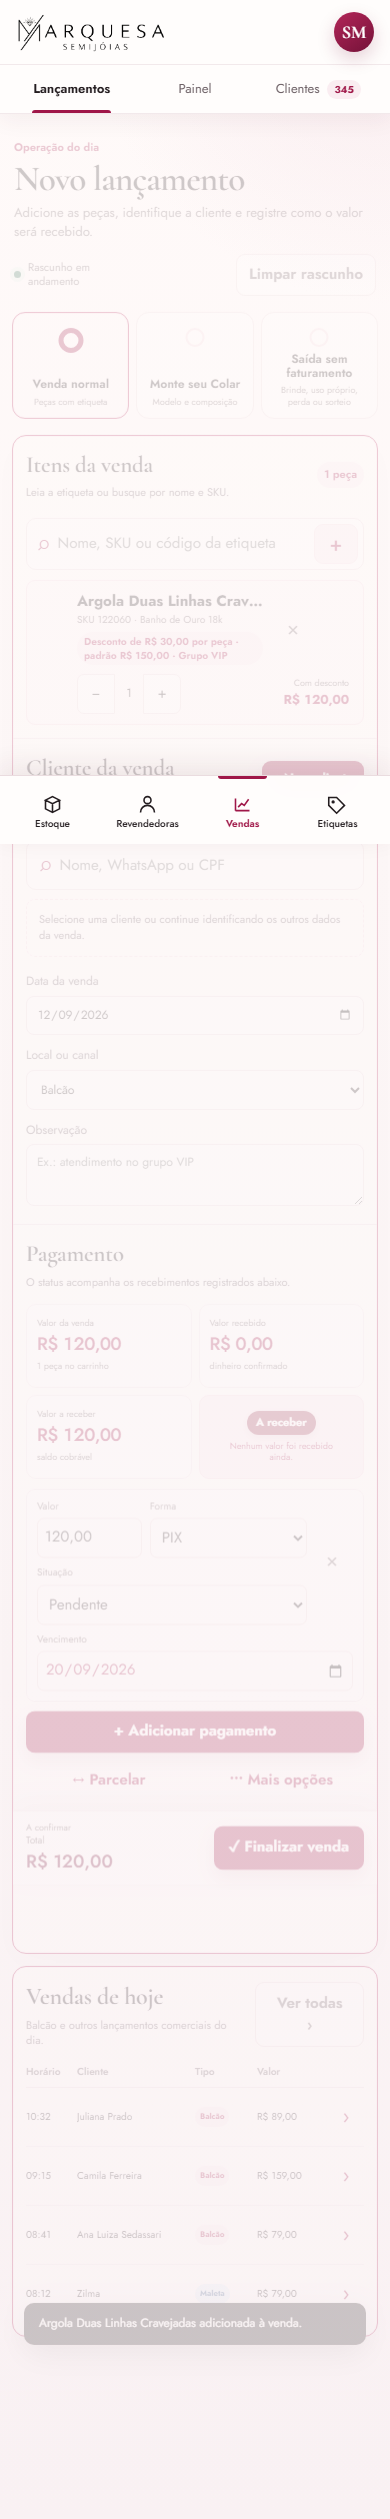
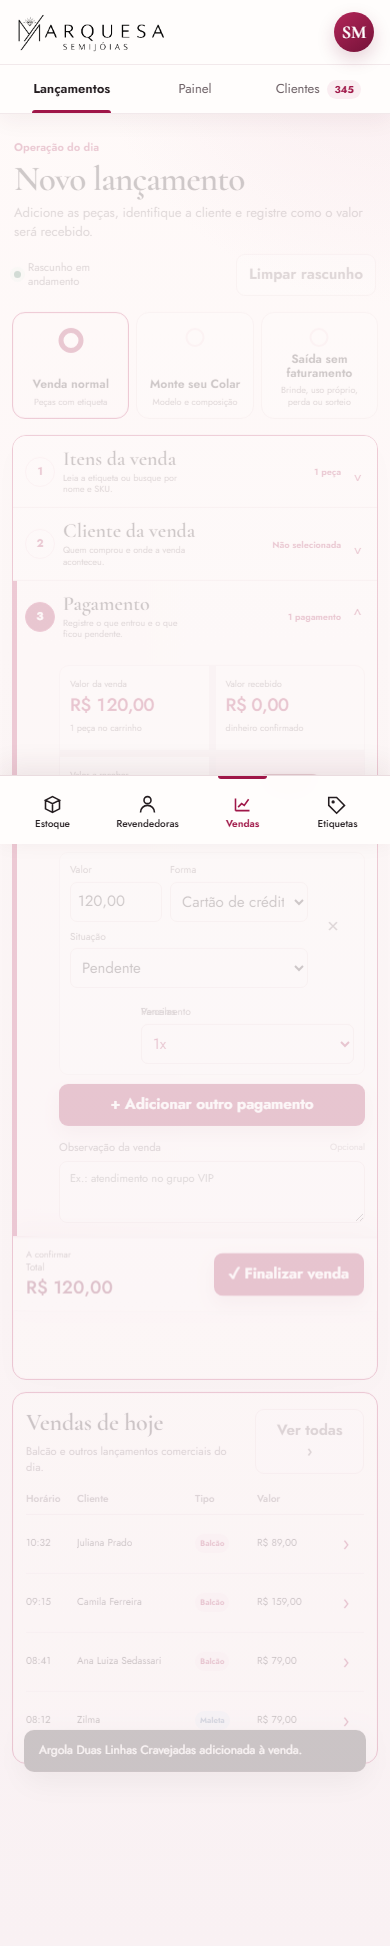
feat(ux): VEN-001 compacta fluxo de lancamento

diff --git a/docs/ux/03-screens/vendas/master.html b/docs/ux/03-screens/vendas/master.html
@@ -255,15 +255,16 @@
             <div class="draft-tools"><span class="draft-indicator" data-draft-indicator><i></i> Rascunho vazio</span><button class="button ghost" type="button" data-clear-draft disabled>Limpar rascunho</button></div>
           </div>
           <div class="choice-grid" role="radiogroup" aria-label="Tipo de lançamento">
-            <button class="choice active" type="button" role="radio" aria-checked="true" data-launch-type="sale"><span>Venda normal</span><small>Peças com etiqueta</small></button>
+            <button class="choice" type="button" role="radio" aria-checked="false" data-launch-type="sale"><span>Venda normal</span><small>Peças com etiqueta</small></button>
             <button class="choice" type="button" role="radio" aria-checked="false" data-next-launch-flow="collar"><span>Monte seu Colar</span><small>Modelo e composição</small></button>
             <button class="choice" type="button" role="radio" aria-checked="false" data-launch-screen="saidas"><span>Saída sem faturamento</span><small>Brinde, uso próprio, perda ou sorteio</small></button>
           </div>
-          <div data-launch-workspace>
+          <div data-launch-workspace hidden>
             <section class="sale-composer" aria-label="Venda normal">
               <div class="launch-grid">
-              <section class="launch-pane launch-card">
-                <div class="section-heading"><div><h2>Itens da venda</h2><p>Leia a etiqueta ou busque por nome e SKU.</p></div><span class="item-count" data-item-count>0 peças</span></div>
+              <section class="launch-pane launch-card flow-step is-open" data-flow-step="items">
+                <button class="flow-step-toggle" type="button" data-step-toggle aria-expanded="true"><span class="step-index">1</span><span class="step-title"><strong>Itens da venda</strong><small>Leia a etiqueta ou busque por nome e SKU.</small></span><span class="step-summary" data-item-count>0 peças</span><span class="step-chevron" aria-hidden="true">⌃</span></button>
+                <div class="flow-step-body">
                 <form class="product-search" data-product-search-form>
                   <label class="visually-hidden" for="launch-product-search">Buscar produto</label>
                   <span aria-hidden="true">⌕</span>
@@ -273,10 +274,14 @@
                 <div class="product-results" data-product-results hidden></div>
                 <ul class="cart-list launch-cart" data-launch-cart hidden></ul>
                 <div class="cart-empty" data-cart-empty><span aria-hidden="true">◇</span><b>A venda ainda está vazia</b><small>Leia uma etiqueta ou busque uma peça para começar.</small></div>
+                <div class="step-next"><button class="button primary" type="button" data-open-step="customer" disabled>Continuar para cliente</button></div>
+                </div>
               </section>
 
-              <section class="launch-pane customer-card">
-                <div class="section-heading"><div><h2>Cliente da venda</h2><p>Quem comprou e onde a venda aconteceu.</p></div><button class="button primary compact-action" type="button" data-new-customer>+ Nova cliente</button></div>
+              <section class="launch-pane customer-card flow-step is-collapsed" data-flow-step="customer">
+                <button class="flow-step-toggle" type="button" data-step-toggle aria-expanded="false"><span class="step-index">2</span><span class="step-title"><strong>Cliente da venda</strong><small>Quem comprou e onde a venda aconteceu.</small></span><span class="step-summary" data-customer-step-summary>Não selecionada</span><span class="step-chevron" aria-hidden="true">⌄</span></button>
+                <div class="flow-step-body">
+                <div class="customer-step-actions"><button class="button primary compact-action" type="button" data-new-customer>+ Nova cliente</button></div>
                 <label class="field-label" for="launch-customer-search">Cliente</label>
                 <div class="customer-search"><span aria-hidden="true">⌕</span><input id="launch-customer-search" type="search" list="launch-customer-options" placeholder="Nome, WhatsApp ou CPF" data-customer-search /></div>
                 <datalist id="launch-customer-options"><option value="Thais Nania"></option><option value="Camila Ferreira"></option><option value="Juliana Prado"></option></datalist>
@@ -285,26 +290,31 @@
                 <div class="form-grid">
                   <label>Data da venda<input type="date" value="2026-09-12" max="2026-09-12" data-sale-date></label>
                   <label>Local ou canal<select data-sale-channel><option>Balcão</option><option>WhatsApp</option><option>Instagram</option><option>Feira ou evento</option></select></label>
-                  <label class="wide">Observação<textarea placeholder="Ex.: atendimento no grupo VIP" data-sale-note></textarea></label>
+                </div>
+                <div class="step-next"><button class="button primary" type="button" data-open-step="payment">Continuar para pagamento</button></div>
                 </div>
               </section>
-            </div>
 
-            <section class="payment">
-              <div class="section-heading"><div><h2>Pagamento</h2><p>O status acompanha os recebimentos registrados abaixo.</p></div></div>
+            <section class="payment flow-step is-collapsed" data-flow-step="payment">
+              <button class="flow-step-toggle" type="button" data-step-toggle aria-expanded="false"><span class="step-index">3</span><span class="step-title"><strong>Pagamento</strong><small>Registre o que entrou e o que ficou pendente.</small></span><span class="step-summary" data-payment-step-summary>Não informado</span><span class="step-chevron" aria-hidden="true">⌄</span></button>
+              <div class="flow-step-body">
               <div class="payment-overview">
                 <div class="payment-metric"><span>Valor da venda</span><strong data-sale-total>R$ 0,00</strong><small data-sale-piece-count>0 peças no carrinho</small></div>
                 <div class="payment-metric"><span>Valor recebido</span><strong data-sale-received>R$ 0,00</strong><small>dinheiro confirmado</small></div>
                 <div class="payment-metric"><span>Valor a receber</span><strong data-sale-receivable>R$ 0,00</strong><small>saldo cobrável</small></div>
                 <div class="financial-callout" data-financial-callout><span class="status neutral" data-financial-status>Sem itens</span><small data-financial-copy>Adicione uma peça para calcular.</small></div>
               </div>
-              <div class="payment-table">
+              <div class="payment-empty" data-payment-empty><span aria-hidden="true">◇</span><div><b>Nenhum pagamento informado</b><small>Adicione o primeiro recebimento ou valor pendente.</small></div></div>
+              <div class="payment-table" data-payment-table hidden>
                 <div class="payment-table-head"><span>Valor</span><span>Forma de pagamento</span><span>Status</span><span>Informações</span><span></span></div>
                 <div class="payment-list" data-payment-list></div>
               </div>
               <p class="payment-warning" role="alert" data-payment-warning hidden></p>
-              <div class="payment-actions"><button class="button primary" type="button" data-add-payment>+ Adicionar pagamento</button><button class="button quiet-action" type="button" data-show-parcel-help>↔ Parcelar</button><button class="button quiet-action" type="button" data-show-payment-help>••• Mais opções</button></div>
+              <div class="payment-actions"><button class="button primary" type="button" data-add-payment>+ Adicionar pagamento</button></div>
+              <label class="sale-note-field">Observação da venda <span>Opcional</span><textarea placeholder="Ex.: atendimento no grupo VIP" data-sale-note></textarea></label>
+              </div>
             </section>
+            </div>
             <footer class="sale-composer-footer"><strong data-footer-piece-count>0 peças</strong><div class="sale-totals"><span>Subtotal <b data-sale-subtotal>R$ 0,00</b></span><span>Desconto <b data-sale-discount>R$ 0,00</b></span><span>Total <b data-footer-total>R$ 0,00</b></span></div><button class="button primary" type="button" data-finalize-sale disabled>✓ Finalizar venda</button></footer>
             </section>
 
@@ -393,9 +403,14 @@
       const launchScreen = document.querySelector('#lancamentos');
       const launchWorkspace = launchScreen.querySelector('[data-launch-workspace]');
       const launchSuccess = launchScreen.querySelector('[data-launch-success]');
+      const saleChoice = launchScreen.querySelector('[data-launch-type="sale"]');
+      const flowSteps = [...launchScreen.querySelectorAll('[data-flow-step]')];
       const launchCart = launchScreen.querySelector('[data-launch-cart]');
       const cartEmpty = launchScreen.querySelector('[data-cart-empty]');
       const paymentList = launchScreen.querySelector('[data-payment-list]');
+      const paymentTable = launchScreen.querySelector('[data-payment-table]');
+      const paymentEmpty = launchScreen.querySelector('[data-payment-empty]');
+      const addPaymentButton = launchScreen.querySelector('[data-add-payment]');
       const paymentWarning = launchScreen.querySelector('[data-payment-warning]');
       const finalizeSaleButton = launchScreen.querySelector('[data-finalize-sale]');
       const productSearch = launchScreen.querySelector('[data-product-search]');
@@ -449,6 +464,45 @@
         launchScreen.querySelector(selector).textContent = value;
       }
 
+      function setFlowStep(stepName) {
+        flowSteps.forEach((step) => {
+          const open = step.dataset.flowStep === stepName;
+          step.classList.toggle('is-open', open);
+          step.classList.toggle('is-collapsed', !open);
+          step.querySelector('[data-step-toggle]').setAttribute('aria-expanded', String(open));
+          step.querySelector('.step-chevron').textContent = open ? '⌃' : '⌄';
+        });
+      }
+
+      flowSteps.forEach((step) => step.querySelector('[data-step-toggle]').addEventListener('click', () => {
+        if (step.classList.contains('is-open')) {
+          step.classList.remove('is-open');
+          step.classList.add('is-collapsed');
+          step.querySelector('[data-step-toggle]').setAttribute('aria-expanded', 'false');
+          step.querySelector('.step-chevron').textContent = '⌄';
+          return;
+        }
+        setFlowStep(step.dataset.flowStep);
+      }));
+
+      launchScreen.querySelectorAll('[data-open-step]').forEach((button) => button.addEventListener('click', () => {
+        const target = button.dataset.openStep;
+        setFlowStep(target);
+        launchScreen.querySelector(`[data-flow-step="${target}"]`).scrollIntoView({ block: 'nearest', behavior: matchMedia('(prefers-reduced-motion: reduce)').matches ? 'auto' : 'smooth' });
+      }));
+
+      saleChoice.addEventListener('click', () => {
+        launchScreen.querySelectorAll('.choice').forEach((choice) => {
+          const selected = choice === saleChoice;
+          choice.classList.toggle('active', selected);
+          choice.setAttribute('aria-checked', String(selected));
+        });
+        launchWorkspace.hidden = false;
+        launchSuccess.hidden = true;
+        setFlowStep('items');
+        requestAnimationFrame(() => productSearch.focus());
+      });
+
       function updateLaunch() {
         const items = launchItems();
         const pieceCount = items.reduce((sum, item) => sum + Number(item.dataset.quantity), 0);
@@ -476,18 +530,25 @@
         setLaunchText('[data-footer-total]', launchMoney(totals.total));
         cartEmpty.hidden = items.length > 0;
         launchCart.hidden = items.length === 0;
+        launchScreen.querySelector('[data-open-step="customer"]').disabled = items.length === 0;
+        paymentTable.hidden = payments.length === 0;
+        paymentEmpty.hidden = payments.length > 0;
+        addPaymentButton.textContent = payments.length ? '+ Adicionar outro pagamento' : '+ Adicionar pagamento';
 
         let missingPendingDueDate = false;
         payments.forEach((entry) => {
           const info = entry.querySelector('[data-payment-info]');
           const dueField = entry.querySelector('[data-payment-due-field]');
           const dueInput = entry.querySelector('[data-payment-due-input]');
+          const installmentsField = entry.querySelector('[data-payment-installments]');
           const isPending = entry.querySelector('[data-payment-state]').value === 'pending';
+          const isCreditCard = entry.querySelector('[data-payment-method]').value === 'Cartão de crédito';
           if (info) {
-            info.hidden = isPending;
+            info.hidden = isPending || isCreditCard;
             info.textContent = 'Data do pagamento: 12/09/2026';
           }
           if (dueField) dueField.hidden = !isPending;
+          if (installmentsField) installmentsField.hidden = !isCreditCard;
           entry.classList.toggle('is-pending', isPending);
           const pendingWithoutDate = isPending && !dueInput?.value;
           entry.classList.toggle('payment-incomplete', pendingWithoutDate);
@@ -514,6 +575,9 @@
           status.textContent = 'Pago';
           financialCopy.textContent = 'O valor da venda foi recebido.';
         }
+        const customerName = selectedCustomer.hidden ? '' : launchScreen.querySelector('[data-customer-name]').textContent;
+        setLaunchText('[data-customer-step-summary]', customerName || 'Não selecionada');
+        setLaunchText('[data-payment-step-summary]', payments.length ? `${payments.length} ${payments.length === 1 ? 'pagamento' : 'pagamentos'}` : 'Não informado');
 
         paymentWarning.hidden = !totals.exceeded && !missingPendingDueDate;
         paymentWarning.textContent = totals.exceeded
@@ -648,7 +712,7 @@
         entry.className = 'payment-entry';
         entry.dataset.paymentEntry = '';
         entry.dataset.autoBalance = 'false';
-        entry.innerHTML = `<label><span>Valor</span><input type="number" min="0" step="0.01" value="${value.toFixed(2)}" data-payment-amount></label><label><span>Forma</span><select data-payment-method><option>PIX</option><option>Dinheiro</option><option>Cartão de débito</option><option>Cartão de crédito</option><option>Transferência</option><option>Boleto</option><option>Link de pagamento</option><option>Crédito da cliente</option><option>Outro</option></select></label><label><span>Situação</span><select data-payment-state><option value="paid">Pago hoje</option><option value="pending">Pendente</option></select></label><span class="payment-info" data-payment-info>Data do pagamento: 12/09/2026</span><label class="payment-due-field" data-payment-due-field hidden><span>Vencimento</span><input type="date" min="2026-09-12" data-payment-due-input aria-label="Vencimento do pagamento pendente"></label><button class="payment-remove" type="button" data-remove-payment aria-label="Remover pagamento">×</button>`;
+        entry.innerHTML = `<label><span>Valor</span><input type="number" min="0" step="0.01" value="${value.toFixed(2)}" data-payment-amount></label><label><span>Forma</span><select data-payment-method><option>PIX</option><option>Dinheiro</option><option>Cartão de débito</option><option>Cartão de crédito</option><option>Transferência</option><option>Boleto</option><option>Link de pagamento</option><option>Crédito da cliente</option><option>Outro</option></select></label><label><span>Situação</span><select data-payment-state><option value="paid">Pago hoje</option><option value="pending">Pendente</option></select></label><div class="payment-context"><span class="payment-info" data-payment-info>Data do pagamento: 12/09/2026</span><label class="payment-due-field" data-payment-due-field hidden><span>Vencimento</span><input type="date" min="2026-09-12" data-payment-due-input aria-label="Vencimento do pagamento pendente"></label><label class="payment-installments" data-payment-installments hidden><span>Parcelas</span><select aria-label="Quantidade de parcelas"><option>1x</option><option>2x</option><option>3x</option><option>4x</option><option>5x</option><option>6x</option><option>7x</option><option>8x</option><option>9x</option><option>10x</option><option>11x</option><option>12x</option></select></label></div><button class="payment-remove" type="button" data-remove-payment aria-label="Remover pagamento">×</button>`;
         return entry;
       }
 
@@ -663,15 +727,13 @@
         event.target.closest('[data-payment-entry]').remove();
         updateLaunch();
       });
-      launchScreen.querySelector('[data-add-payment]').addEventListener('click', () => {
+      addPaymentButton.addEventListener('click', () => {
         launchPayments().forEach((entry) => { entry.dataset.autoBalance = 'false'; });
         const totals = launchTotals();
         paymentList.append(paymentEntry(Math.max(0, totals.total - totals.planned)));
         updateLaunch();
         paymentList.lastElementChild.querySelector('[data-payment-amount]').focus();
       });
-      launchScreen.querySelector('[data-show-parcel-help]').addEventListener('click', () => showLaunchToast('O parcelamento será a próxima camada. Nesta versão, adicione os recebimentos separadamente e marque os futuros como pendentes.'));
-      launchScreen.querySelector('[data-show-payment-help]').addEventListener('click', () => showLaunchToast('Datas, vencimentos e observações serão abertos aqui conforme a forma e a situação escolhidas.'));
       launchScreen.querySelector('[data-open-today-sales]').addEventListener('click', () => activateScreen('painel'));
 
       function initialsFor(name) {
@@ -721,7 +783,17 @@
         launchScreen.querySelector('[data-sale-note]').value = '';
         launchWorkspace.hidden = false;
         launchSuccess.hidden = true;
+        setFlowStep('items');
         updateLaunch();
+      }
+
+      function resetLaunchTypePicker() {
+        launchWorkspace.hidden = true;
+        launchSuccess.hidden = true;
+        launchScreen.querySelectorAll('.choice').forEach((choice) => {
+          choice.classList.remove('active');
+          choice.setAttribute('aria-checked', 'false');
+        });
       }
 
       launchScreen.querySelector('[data-clear-draft]').addEventListener('click', () => clearDraftDialog.showModal());
@@ -753,9 +825,13 @@
           launchSuccess.scrollIntoView({ block: 'start', behavior: matchMedia('(prefers-reduced-motion: reduce)').matches ? 'auto' : 'smooth' });
         }, 420);
       });
-      launchScreen.querySelector('[data-new-sale]').addEventListener('click', clearLaunchDraft);
+      launchScreen.querySelector('[data-new-sale]').addEventListener('click', () => {
+        clearLaunchDraft();
+        resetLaunchTypePicker();
+      });
       launchScreen.querySelectorAll('[data-sale-date], [data-sale-channel], [data-sale-note]').forEach((field) => field.addEventListener('input', updateLaunch));
       clearLaunchDraft();
+      resetLaunchTypePicker();
 
       const viewButtons = [...document.querySelectorAll('[data-view]')];
       const viewPanels = [...document.querySelectorAll('[data-view-panel]')];

diff --git a/docs/ux/03-screens/vendas/master.css b/docs/ux/03-screens/vendas/master.css
@@ -334,12 +334,27 @@ td strong { color: var(--wine-700); }
 .choice span { font-weight: 650; }
 .choice small { margin-top: 3px; color: var(--muted); }
 .sale-composer { overflow: hidden; border: 1.5px solid var(--wine-600); border-radius: 16px; background: rgba(255,253,252,.96); box-shadow: inset 0 0 0 1px rgba(179,38,89,.07), 0 10px 34px rgba(83,29,48,.07); }
-.sale-composer .launch-grid { display: grid; grid-template-columns: minmax(0, 1.16fr) minmax(320px, .84fr); align-items: stretch; gap: 0; }
+.sale-composer .launch-grid { display: block; }
 .launch-grid > * { min-width: 0; }
 .launch-card, .customer-card, .payment, .client-list, .output-list, .repair-list { padding: 20px; }
-#lancamentos .launch-card, #lancamentos .customer-card { min-height: 356px; }
-.sale-composer .launch-pane { padding: 18px 20px; }
-.sale-composer .launch-pane + .launch-pane { border-left: 1px solid var(--line); }
+#lancamentos .launch-card, #lancamentos .customer-card { min-height: 0; }
+.sale-composer .launch-pane { padding: 0; }
+.sale-composer .launch-pane + .launch-pane { border-left: 0; }
+.flow-step { position: relative; padding: 0; border-bottom: 1px solid var(--line); background: var(--paper); }
+.flow-step.is-open { background: linear-gradient(90deg, var(--rose-050), var(--paper) 48%); box-shadow: inset 4px 0 var(--wine-600); }
+.flow-step-toggle { display: grid; width: 100%; grid-template-columns: 32px minmax(0, 1fr) auto 20px; align-items: center; gap: 12px; padding: 15px 20px; border: 0; background: transparent; color: var(--ink); cursor: pointer; text-align: left; }
+.flow-step-toggle:focus-visible { outline: 3px solid rgba(179,38,89,.22); outline-offset: -3px; }
+.step-index { display: grid; width: 30px; height: 30px; place-items: center; border: 1px solid var(--rose-200); border-radius: 50%; background: white; color: var(--wine-700); font-size: 11px; font-weight: 700; }
+.is-open .step-index { border-color: var(--wine-600); background: var(--wine-700); color: white; }
+.step-title strong, .step-title small { display: block; }
+.step-title strong { font-family: var(--serif); font-size: 23px; font-weight: 620; line-height: 1; }
+.step-title small { margin-top: 3px; color: var(--muted); font-size: 10px; }
+.step-summary { color: var(--wine-700); font-size: 11px; font-weight: 650; }
+.step-chevron { color: var(--wine-700); font-size: 17px; text-align: center; }
+.flow-step-body { padding: 0 20px 20px 64px; }
+.flow-step.is-collapsed .flow-step-body { display: none; }
+.step-next { display: flex; justify-content: flex-end; margin-top: 14px; padding-top: 12px; border-top: 1px solid var(--line-soft); }
+.customer-step-actions { display: flex; justify-content: flex-end; margin: -2px 0 4px; }
 .compact-action { padding: 9px 13px; }
 .item-count { flex: 0 0 auto; padding: 5px 9px; border-radius: 999px; background: var(--rose-100); color: var(--wine-700); font-size: 11px; font-weight: 650; }
 .search-field { display: flex; min-height: 44px; align-items: center; justify-content: space-between; margin: 16px 0 10px; padding: 0 13px; border: 1px solid var(--line); border-radius: 8px; background: white; color: #9b8e93; }
@@ -394,13 +409,13 @@ td strong { color: var(--wine-700); }
 .form-grid input, .form-grid select, .form-grid textarea { width: 100%; margin-top: 5px; padding: 9px 10px; border: 1px solid var(--line); border-radius: 8px; background: white; color: var(--ink); }
 .form-grid textarea { min-height: 62px; resize: vertical; }
 .payment { margin-top: 16px; overflow: visible; }
-.sale-composer .payment { margin: 0; padding: 14px 20px 12px; border-top: 1px solid var(--line); }
-.payment-overview { display: grid; grid-template-columns: repeat(4, minmax(0, 1fr)); gap: 10px; margin: 13px 0 10px; }
-.payment-metric { position: relative; min-height: 76px; padding: 12px 14px 11px 48px; border: 1px solid var(--line-soft); border-radius: 10px; background: var(--paper); }
+.sale-composer .payment { margin: 0; padding: 0; border-top: 0; }
+.payment-overview { display: grid; grid-template-columns: repeat(4, minmax(0, 1fr)); gap: 1px; margin: 13px 0 10px; overflow: hidden; border: 1px solid var(--line-soft); border-radius: 10px; background: var(--line-soft); }
+.payment-metric { position: relative; min-height: 76px; padding: 12px 14px 11px 48px; border: 0; border-radius: 0; background: var(--paper); }
 .payment-metric::before { position: absolute; top: 14px; left: 14px; display: grid; width: 26px; height: 26px; place-items: center; border-radius: 50%; background: var(--rose-100); color: var(--wine-700); content: "R$"; font-size: 8px; font-weight: 700; }
 .payment-metric span, .payment-metric small { display: block; color: var(--muted); font-size: 9px; }
 .payment-metric strong { display: block; margin: 2px 0; color: var(--wine-700); font-size: 20px; font-variant-numeric: tabular-nums; font-weight: 540; letter-spacing: -.02em; }
-.financial-callout { display: flex; min-height: 76px; flex-direction: column; align-items: center; justify-content: center; padding: 10px; border: 1px solid #ecd8b2; border-radius: 10px; background: var(--warning-bg); text-align: center; }
+.financial-callout { display: flex; min-height: 76px; flex-direction: column; align-items: center; justify-content: center; padding: 10px; border: 0; border-radius: 0; background: var(--warning-bg); text-align: center; }
 .financial-callout small { max-width: 22ch; margin-top: 5px; color: var(--warning); font-size: 9px; line-height: 1.25; }
 .financial-callout:has(.status.paid) { border-color: #cce5d8; background: var(--success-bg); }
 .financial-callout:has(.status.paid) small { color: var(--success); }
@@ -414,6 +429,10 @@ td strong { color: var(--wine-700); }
 .payment-summary span { display: flex; flex-direction: column; justify-content: center; padding: 14px 18px; background: var(--rose-050); color: var(--muted); font-size: 11px; }
 .payment-summary b { display: block; margin: 4px 0 0; color: var(--ink); font-size: 20px; font-variant-numeric: tabular-nums; font-weight: 550; }
 .payment-table { overflow: hidden; border: 1px solid var(--line-soft); border-radius: 9px; }
+.payment-empty { display: flex; align-items: center; gap: 12px; padding: 13px 14px; border: 1px dashed var(--rose-200); border-radius: 10px; background: var(--rose-050); }
+.payment-empty > span { color: var(--wine-600); font-family: var(--serif); font-size: 25px; }
+.payment-empty b, .payment-empty small { display: block; }
+.payment-empty small { margin-top: 2px; color: var(--muted); font-size: 10px; }
 .payment-table-head { display: grid; grid-template-columns: minmax(120px,.65fr) minmax(180px,1fr) minmax(145px,.75fr) minmax(230px,1.2fr) 38px; gap: 8px; padding: 7px 11px; background: var(--rose-050); color: var(--muted); font-size: 9px; }
 .payment-list { display: grid; gap: 0; }
 .payment-entry { display: grid; grid-template-columns: minmax(120px,.65fr) minmax(180px,1fr) minmax(145px,.75fr) minmax(230px,1.2fr) 38px; align-items: center; gap: 8px; padding: 5px 8px 5px 11px; border-bottom: 1px solid var(--line-soft); background: var(--paper); }
@@ -425,6 +444,8 @@ td strong { color: var(--wine-700); }
 .payment-info { color: var(--muted); font-size: 10px; }
 .payment-due-field { min-width: 0; }
 .payment-due-field input { border-color: var(--rose-200); background: var(--rose-050); color: var(--wine-700); }
+.payment-context { display: grid; gap: 6px; }
+.payment-installments select { border-color: var(--rose-200); background: var(--rose-050); color: var(--wine-700); }
 .payment-entry.payment-incomplete { box-shadow: inset 3px 0 var(--warning); }
 .payment-remove { margin-bottom: 2px; }
 .payment-warning { margin: 9px 0 0; padding: 8px 11px; border-radius: 8px; background: var(--warning-bg); color: var(--warning); font-size: 11px; }
@@ -432,6 +453,10 @@ td strong { color: var(--wine-700); }
 .payment-actions .button { padding-block: 8px; }
 .quiet-action { border-color: transparent; background: transparent; color: var(--wine-700); box-shadow: none; }
 .quiet-action:hover { background: var(--rose-050); }
+.sale-note-field { display: block; margin-top: 14px; color: var(--muted); font-size: 11px; }
+.sale-note-field > span { float: right; color: #aa9ca1; font-size: 9px; }
+.sale-note-field textarea { width: 100%; min-height: 62px; margin-top: 5px; padding: 9px 10px; border: 1px solid var(--line); border-radius: 8px; background: white; color: var(--ink); resize: vertical; }
+.sale-note-field textarea:focus { border-color: var(--wine-600); outline: 0; box-shadow: 0 0 0 3px rgba(179,38,89,.08); }
 .launch-checkout { display: flex; align-items: center; justify-content: flex-end; gap: 18px; margin-top: 14px; padding-top: 14px; border-top: 1px solid var(--line); }
 .launch-checkout > div { text-align: right; }
 .launch-checkout span, .launch-checkout strong { display: block; }
@@ -521,7 +546,7 @@ td strong { color: var(--wine-700); }
   .profile-copy { display: none; }
   .detail-grid, .launch-grid { grid-template-columns: 1fr; }
   .sale-composer .launch-grid { grid-template-columns: 1fr; }
-  .sale-composer .launch-pane + .launch-pane { border-top: 1px solid var(--line); border-left: 0; }
+  .sale-composer .launch-pane + .launch-pane { border-top: 0; border-left: 0; }
   .breakdowns { grid-template-columns: 1fr 1fr; }
 }
 
@@ -778,8 +803,14 @@ td strong { color: var(--wine-700); }
   .draft-tools .button { min-height: 42px; padding: 8px 12px; }
   .draft-indicator { max-width: 130px; line-height: 1.2; }
   #lancamentos .choice { min-height: 96px; padding-top: 39px; }
-  #lancamentos .launch-card, #lancamentos .customer-card, #lancamentos .payment { padding: 13px; }
+  #lancamentos .launch-card, #lancamentos .customer-card, #lancamentos .payment { padding: 0; }
   .sale-composer { border-radius: 14px; }
+  .flow-step-toggle { grid-template-columns: 30px minmax(0, 1fr) 70px 16px; gap: 8px; padding: 13px 12px; }
+  .step-title strong { font-size: 20px; }
+  .step-title small { max-width: 24ch; font-size: 9px; line-height: 1.25; }
+  .step-summary { overflow: hidden; font-size: 9px; text-align: right; text-overflow: ellipsis; white-space: nowrap; }
+  .flow-step-body { padding: 0 12px 14px 46px; }
+  .step-next .button { width: 100%; min-height: 42px; }
   #lancamentos .section-heading { align-items: center; }
   .item-count { padding-inline: 7px; }
   .product-search { grid-template-columns: auto minmax(0, 1fr) 44px; padding: 5px 5px 5px 11px; }
@@ -823,15 +854,14 @@ td strong { color: var(--wine-700); }
   .payment-entry label:nth-child(1) { grid-area: amount; }
   .payment-entry label:nth-child(2) { grid-area: method; }
   .payment-entry label:nth-child(3) { grid-area: state; }
-  .payment-entry .payment-info { grid-area: info; padding-top: 3px; }
-  .payment-entry .payment-due-field { grid-area: info; }
+  .payment-entry .payment-context { grid-area: info; padding-top: 3px; }
   .payment-entry .payment-remove { grid-area: remove; align-self: center; }
   .payment-table .payment-entry label > span { display: block; }
   .payment-entry input, .payment-entry select { min-height: 40px; border-color: var(--line); background: white; }
   .payment-actions { display: grid; grid-template-columns: repeat(2, minmax(0, 1fr)); }
   .payment-actions .button { width: 100%; min-height: 42px; }
   .payment-actions .primary { grid-column: 1 / -1; }
-  #lancamentos .sale-composer .payment { padding-bottom: 76px; }
+  #lancamentos .sale-composer .payment .flow-step-body { padding-bottom: 76px; }
   .launch-checkout {
     position: sticky;
     z-index: 24;
